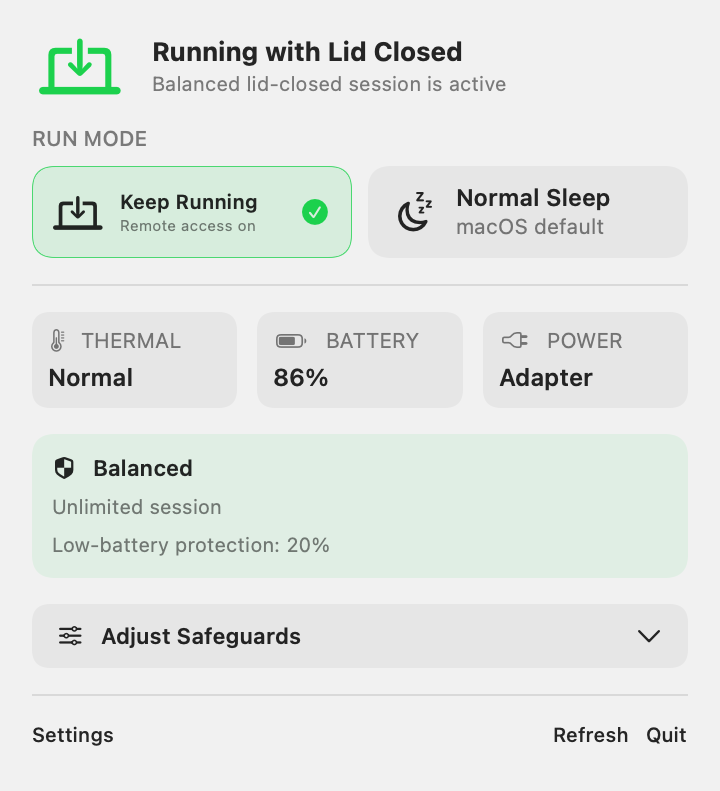
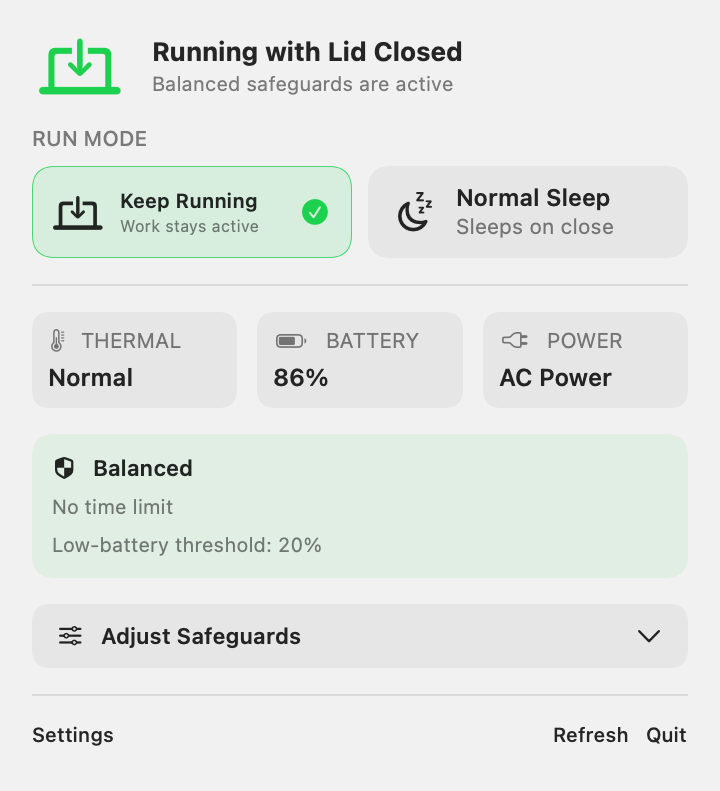
Polish English README copy

diff --git a/scripts/render-readme-screenshots.swift b/scripts/render-readme-screenshots.swift
@@ -90,7 +90,7 @@ private struct ModeSwitcher: View {
             HStack(spacing: 8) {
                 ModeCard(
                     title: "Keep Running",
-                    subtitle: "Remote access on",
+                    subtitle: "Work stays active",
                     icon: "laptopcomputer.and.arrow.down",
                     selected: active,
                     tint: Palette.green,
@@ -98,7 +98,7 @@ private struct ModeSwitcher: View {
                 )
                 ModeCard(
                     title: "Normal Sleep",
-                    subtitle: "macOS default",
+                    subtitle: "Sleeps on close",
                     icon: "moon.zzz",
                     selected: !active,
                     tint: Palette.blue,
@@ -139,7 +139,7 @@ private struct Metrics: View {
         HStack(spacing: 10) {
             MetricCard(title: "THERMAL", value: "Normal", icon: "thermometer.medium", dark: dark)
             MetricCard(title: "BATTERY", value: "\(battery)%", icon: "battery.75percent", dark: dark)
-            MetricCard(title: "POWER", value: "Adapter", icon: "powerplug", dark: dark)
+            MetricCard(title: "POWER", value: "AC Power", icon: "powerplug", dark: dark)
         }
     }
 }
@@ -152,10 +152,10 @@ private struct ActiveSession: View {
         VStack(alignment: .leading, spacing: 6) {
             Label("Balanced", systemImage: "shield.checkered")
                 .font(.subheadline.weight(.semibold))
-            Text("Unlimited session")
+            Text("No time limit")
                 .font(.caption)
                 .foregroundStyle(.secondary)
-            Text("Low-battery protection: \(threshold)%")
+            Text("Low-battery threshold: \(threshold)%")
                 .font(.caption)
                 .foregroundStyle(.secondary)
         }
@@ -185,7 +185,7 @@ private struct ActivePanel: View {
 
     var body: some View {
         VStack(alignment: .leading, spacing: 13) {
-            Header(active: true, subtitle: "Balanced lid-closed session is active")
+            Header(active: true, subtitle: "Balanced safeguards are active")
             ModeSwitcher(active: true, dark: dark)
             Divider()
             Metrics(battery: 86, dark: dark)
@@ -224,7 +224,7 @@ private struct ExpandedControls: View {
             VStack(alignment: .leading, spacing: 3) {
                 Text("CURRENT SESSION SAFEGUARDS")
                     .font(.system(size: 11.5, weight: .semibold))
-                Text("Changes apply immediately to the current session.")
+                Text("Changes take effect immediately.")
                     .font(.system(size: 10.5))
                     .foregroundStyle(.secondary)
             }
@@ -238,10 +238,10 @@ private struct ExpandedControls: View {
             .background(dark ? Palette.darkCard : Palette.lightCard, in: RoundedRectangle(cornerRadius: 7))
 
             HStack {
-                Text("Session duration")
+                Text("Duration")
                     .font(.system(size: 12, weight: .medium))
                 Spacer()
-                Text("Unlimited")
+                Text("No time limit")
                     .font(.system(size: 12, weight: .semibold))
                 Image(systemName: "chevron.up.chevron.down")
                     .font(.caption)
@@ -251,7 +251,7 @@ private struct ExpandedControls: View {
             .frame(height: 30)
             .background(dark ? Palette.darkCard : Palette.lightCard, in: RoundedRectangle(cornerRadius: 7))
 
-            Text("Keeps running until you manually restore normal lid sleep.")
+            Text("Keeps running until you restore normal lid sleep.")
                 .font(.system(size: 10.5))
                 .foregroundStyle(.secondary)
 
@@ -271,12 +271,12 @@ private struct ExpandedControls: View {
                 .background(dark ? Palette.darkCard : Palette.lightCard, in: RoundedRectangle(cornerRadius: 7))
             }
 
-            Text("Threshold is adjustable. Serious heat restores sleep automatically; unlimited sessions are optional.")
+            Text("Adjustable threshold. Serious thermal pressure automatically restores normal sleep.")
                 .font(.system(size: 10.5))
                 .foregroundStyle(.secondary)
                 .fixedSize(horizontal: false, vertical: true)
 
-            Text("Apply Safeguards")
+            Text("Apply Changes")
                 .font(.system(size: 13.5, weight: .semibold))
                 .foregroundStyle(.white)
                 .padding(.horizontal, 16)
@@ -310,15 +310,15 @@ private struct Segment: View {
 private struct NormalPanel: View {
     var body: some View {
         VStack(alignment: .leading, spacing: 14) {
-            Header(active: false, subtitle: "Default macOS lid sleep is restored")
+            Header(active: false, subtitle: "macOS will sleep when the lid closes")
             ModeSwitcher(active: false, dark: false)
             Divider()
             Metrics(battery: 86, dark: false)
 
             VStack(alignment: .leading, spacing: 5) {
-                Label("Sleep is managed normally by macOS", systemImage: "checkmark.shield")
+                Label("Normal macOS sleep behavior", systemImage: "checkmark.shield")
                     .font(.system(size: 12.5, weight: .semibold))
-                Text("No lid-closed session or timer, battery, or thermal safeguard is active.")
+                Text("No LidGuard session or safeguards are active.")
                     .font(.system(size: 10.5))
                     .foregroundStyle(.secondary)
                     .fixedSize(horizontal: false, vertical: true)
@@ -328,7 +328,7 @@ private struct NormalPanel: View {
             .background(Palette.blue.opacity(0.08), in: RoundedRectangle(cornerRadius: 10))
 
             HStack {
-                Label("Configure Lid-Closed Session", systemImage: "laptopcomputer.and.arrow.down")
+                Label("Set Up Lid-Closed Mode", systemImage: "laptopcomputer.and.arrow.down")
                     .font(.system(size: 12.5, weight: .semibold))
                 Spacer()
                 Image(systemName: "chevron.down")

diff --git a/README.md b/README.md
@@ -4,45 +4,45 @@
 
 # LidGuard
 
-**Close your Mac before heading out without interrupting Codex, other local agents, or remote access. LidGuard keeps them running under configurable safeguards.**
+**Keep your Mac running with the lid closed so coding agents such as Codex can keep working and remote access stays available while you are away. LidGuard adds time, battery, and thermal safeguards.**
 
 [![macOS 13+](https://img.shields.io/badge/macOS-13%2B-111111?logo=apple)](https://github.com/aermin/LidGuard)
 [![Apple Silicon](https://img.shields.io/badge/Apple%20Silicon-arm64-0A84FF)](https://github.com/aermin/LidGuard)
 [![Swift 5.10](https://img.shields.io/badge/Swift-5.10-F05138?logo=swift&logoColor=white)](https://github.com/aermin/LidGuard)
 [![Tests 16 passing](https://img.shields.io/badge/tests-16%20passing-22C55E)](https://github.com/aermin/LidGuard)
 
-Lightweight menu bar app · Restricted root helper · CLI · No display takeover · No agent hooks
+Menu bar app · Tightly scoped privileged helper · CLI · No virtual display · No agent hooks
 
 </div>
 
-You may need to close your Mac and put it in a sleeve or bag while **Codex, another local agent, a download, or a build is still running**. You may also leave the Mac at home or at your desk and continue viewing and controlling it from your phone. By default, macOS sleeps when the lid is closed, stopping those tasks and remote connections.
+Sometimes you need to close your MacBook while **a coding agent such as Codex is still working, a build or download is in progress, or you plan to reconnect from your phone**. By default, macOS sleeps when the lid closes, pausing local work and dropping remote access.
 
-LidGuard lets you choose what happens after the lid closes. It can keep the Mac running when needed, then automatically restore normal sleep when a timer, low-battery threshold, or system thermal safeguard is triggered. It exposes two clear modes:
+LidGuard lets you decide whether closing the lid should keep the Mac running or return it to normal sleep. While lid-closed operation is active, LidGuard can automatically restore normal sleep when a timer expires, the battery reaches your threshold, or macOS reports serious thermal pressure.
 
-- **Keep Running with Lid Closed**: agents, tasks, and remote connections continue after the lid closes, under the safeguards you select.
-- **Normal Lid Sleep**: restores the default macOS behavior so the Mac sleeps normally when closed.
+- **Keep Running with Lid Closed**: keeps coding agents and background jobs running, and supported remote-control software available, after the lid closes.
+- **Normal Lid Sleep**: restores the default macOS behavior, so the Mac sleeps when the lid closes.
 
-LidGuard only manages whether the Mac keeps running with the lid closed. It does not take over the display or alter unrelated sleep settings.
+LidGuard changes only the lid-close sleep behavior. It does not create a virtual display, capture the screen, keep the display awake, or change unrelated sleep settings.
 
 > [!WARNING]
-> Running a Mac inside a sleeve, backpack, or other enclosed space can trap heat. LidGuard provides thermal safeguards, but it cannot eliminate physical cooling risks. Manual unlimited sessions require an additional confirmation.
+> Running a MacBook inside a sleeve, backpack, or other enclosed space can trap heat. LidGuard can react to thermal pressure reported by macOS, but it cannot guarantee safe temperatures or airflow. Manual sessions with no time limit require an additional confirmation.
 
 ## Quick Start
 
 ### Daily Use
 
 1. Click the LidGuard icon in the menu bar.
-2. Select **Keep Running with Lid Closed (`合盖运行`)**, choose a protection profile and duration, then click **Start (`开始合盖运行`)**.
-3. When continuous operation is no longer needed, select **Normal Lid Sleep (`正常休眠`)** to restore the default macOS lid behavior.
+2. Select **Keep Running (`合盖运行`)**, choose a protection profile and duration, then click **Start (`开始合盖运行`)**.
+3. When you no longer need the Mac to stay running, select **Normal Sleep (`正常休眠`)** to restore the default macOS behavior.
 
-While a session is active, you can view its remaining time, battery level, power source, and system thermal state, or adjust its safeguards.
+While a session is active, you can check the remaining time, battery level, power source, and thermal state, or adjust the current safeguards.
 
 ### Requirements
 
 - Apple Silicon Mac
 - macOS 13 or later
 - Xcode Command Line Tools / Swift 5.10
-- The current local v1 uses ad-hoc signing and is not a distributable installer
+- This source-only v1 uses ad-hoc signing and is not ready for distribution
 
 ### Build, Test, and Install
 
@@ -58,13 +58,13 @@ make install
 `make install` will:
 
 1. Build `dist/LidGuard.app`.
-2. Request administrator authorization once.
-3. Install the restricted helper, LaunchDaemon, and `/usr/local/bin/lidguard`.
+2. Prompt once for administrator authorization.
+3. Install the privileged helper, LaunchDaemon, and `/usr/local/bin/lidguard`.
 4. Open the LidGuard menu bar app.
 
-Switching modes during normal use should not request administrator authorization again.
+After the initial installation, switching modes does not require administrator authorization.
 
-Local v1 builds use ad-hoc signatures. Rebuilding the app generates a new code hash, so updating a development build with `make install` requires authorization again. LidGuard detects this signature mismatch and displays **Reauthorize Helper (`重新授权 Helper`)** instead of incorrectly reporting the helper as missing.
+Development builds use ad-hoc signatures, so each rebuild changes the app's code signature. Running `make install` to update a development build will therefore request administrator authorization again. If the installed helper no longer recognizes the rebuilt app, LidGuard displays **Reauthorize Helper (`重新授权 Helper`)** instead of reporting the helper as missing.
 
 ## Interface
 
@@ -72,9 +72,9 @@ Local v1 builds use ad-hoc signatures. Rebuilding the app generates a new code h
   <img src="docs/assets/lidguard-expanded-en.png" alt="Expanded LidGuard control panel" width="560">
 </p>
 
-<p align="center"><sub>The expanded panel keeps mode switching, device status, the current session, protection profile, duration, and low-battery threshold in one menu.</sub></p>
+<p align="center"><sub>The expanded panel puts mode selection, device status, session details, safeguards, duration, and the low-battery threshold in one menu.</sub></p>
 
-The low-battery threshold is configurable directly in the protection panel. Strict mode uses a fixed 30% threshold, Balanced mode supports 10%-50%, and Manual mode exposes the same threshold control after low-battery protection is enabled.
+The low-battery threshold can be changed directly in the safeguards panel. Strict uses a fixed 30% threshold, Balanced allows 10%–50%, and Manual exposes the same control when low-battery protection is enabled.
 
 <table>
   <tr>
@@ -87,7 +87,7 @@ The low-battery threshold is configurable directly in the protection panel. Stri
   </tr>
   <tr>
     <td>Shows the current profile, duration, low-battery threshold, thermal state, and power source.</td>
-    <td>Hides irrelevant protection countdowns and expands session configuration only when needed.</td>
+    <td>Shows a clean idle state and reveals session setup only when requested.</td>
   </tr>
 </table>
 
@@ -95,17 +95,17 @@ The low-battery threshold is configurable directly in the protection panel. Stri
 
 | Profile | Duration | Low-battery safeguard | Thermal safeguard | Best for |
 | --- | --- | --- | --- | --- |
-| **Strict** | Required, 30 minutes to 8 hours | Fixed at 30% | Restore sleep at `serious` or `critical` | Short absences, safety first |
-| **Balanced** | Preset, custom, or unlimited | 20% by default, adjustable from 10%-50% | Restore sleep at `serious` or `critical` | Everyday remote access and agent tasks |
-| **Manual** | Preset, custom, or unlimited | Off by default, optional | Warn at `serious`; always restore sleep at `critical` | Users explicitly accepting more risk |
+| **Strict** | Required: 30 minutes to 8 hours | Fixed at 30% | Restores normal sleep at `serious` or `critical` | Short absences; safety first |
+| **Balanced** | Preset, custom, or no time limit | 20% by default; adjustable from 10%–50% | Restores normal sleep at `serious` or `critical` | Everyday remote access and agent tasks |
+| **Manual** | Preset, custom, or no time limit | Off by default; optional | Warns at `serious`; always restores sleep at `critical` | Advanced users who want direct control |
 
-Custom sessions can run for up to 7 days. LidGuard sends a notification 5 minutes before expiration. Low-battery protection triggers only while running on battery and not charging.
+Timed sessions can run for up to 7 days. LidGuard sends a notification 5 minutes before a timed session ends. Low-battery protection applies only while the Mac is running on battery and not charging.
 
 ## CLI
 
 ### Install the CLI
 
-The CLI does not require a separate installation. Complete the source installation above:
+The CLI is installed together with the app and helper. Use the source installation above:
 
 ```bash
 git clone https://github.com/aermin/LidGuard.git
@@ -113,7 +113,7 @@ cd LidGuard
 make install
 ```
 
-`make install` installs the menu bar app, restricted helper, and CLI together. The CLI is placed at:
+`make install` installs the menu bar app, privileged helper, and CLI together. The CLI is placed at:
 
 ```text
 /usr/local/bin/lidguard
@@ -130,7 +130,7 @@ lidguard status
 If the shell reports `command not found`, try `/usr/local/bin/lidguard doctor` directly. If that works, make sure `/usr/local/bin` is included in your shell's `PATH`.
 
 > [!NOTE]
-> Do not copy only the CLI binary from the build directory. The CLI must be installed together with the helper so the installation process can register its code-signing requirement. Run `make install` again when updating a source build.
+> Do not copy the CLI binary by itself from the build directory. It must be installed with the helper so the installer can register the CLI's code-signing requirement. Run `make install` again when updating a source build.
 
 ### Usage
 
@@ -139,13 +139,13 @@ If the shell reports `command not found`, try `/usr/local/bin/lidguard doctor` d
 lidguard status
 lidguard status --json
 
-# Run a Balanced session for 4 hours
+# Start a Balanced session for 4 hours
 lidguard start --profile balanced --for 4h
 
-# Run a Strict session until a specific time
+# Start a Strict session that ends at a specific time
 lidguard start --profile strict --until 2026-08-10T23:30:00+08:00
 
-# Run a Manual unlimited session with explicit risk confirmation
+# Start a Manual session with no time limit and confirm the risk
 lidguard start --profile manual --unlimited --confirm-risk
 
 # Extend the current deadline by 2 hours
@@ -158,67 +158,67 @@ lidguard stop
 lidguard doctor
 ```
 
-LidGuard does not install Codex hooks. Agents must invoke the CLI explicitly, so starting or finishing a task never changes the entire Mac's power state automatically.
+LidGuard intentionally does not install Codex hooks. Agents can call the CLI explicitly, but starting or finishing a task will never change the Mac's system-wide sleep behavior automatically.
 
 ## Why LidGuard
 
-General-purpose keep-awake tools often affect the display, idle sleep, or other power behavior at the same time. Remote-control and agent workflows need a narrower switch with clear recovery behavior:
+General-purpose keep-awake tools often prevent display sleep, idle sleep, or both. Remote-control and agent workflows benefit from narrower control with predictable recovery behavior:
 
 | Goal | LidGuard behavior |
 | --- | --- |
 | Keep tasks running after the lid closes | Changes only the system `SleepDisabled` state |
-| Keep remote desktop visible and controllable | Creates no display sleep assertion or virtual display |
-| Preserve safeguards after the app quits | The LaunchDaemon helper persists timers and policies |
-| Avoid entering an admin password every time | Authorize the helper once, then use restricted XPC calls |
-| Recover from low battery or overheating | Restore `disablesleep=0` and record the stop reason |
-| Handle external power-state changes | Do not fight them repeatedly; end the session or report external management |
+| Avoid interfering with remote desktop output | Creates no display-sleep assertion or virtual display |
+| Keep safeguards active after the app quits | The LaunchDaemon helper persists the session and its policies |
+| Avoid entering an admin password every time | Authorize the helper once, then use the limited XPC interface |
+| Recover from low battery or thermal pressure | Restores `disablesleep=0` and records the reason |
+| Respect changes made by other tools | Does not repeatedly override them; ends the session or reports an externally managed state |
 
 ## Security Boundaries
 
-- The helper runs as root but exposes only four structured operation types.
-- The helper validates the caller UID and the code-signing requirement recorded during installation.
-- Sessions, deadlines, and safeguards survive app, CLI, or helper restarts.
+- The helper runs as root but exposes only a fixed set of structured operations.
+- The helper validates the caller's UID and the code-signing requirement recorded during installation.
+- Session state, deadlines, and safeguards survive app, CLI, and helper restarts.
 - **Restore Normal Sleep** changes only `disablesleep=0`; it does not overwrite other `pmset` settings.
-- If another process disables `SleepDisabled`, LidGuard ends the current session instead of repeatedly enabling it again.
-- If another process enables `SleepDisabled`, the UI reports that the state is not managed by LidGuard.
+- If another process clears `SleepDisabled`, LidGuard ends the current session instead of repeatedly setting it again.
+- If another process sets `SleepDisabled`, the UI reports that LidGuard does not manage the current state.
 - Uninstalling the helper restores normal sleep first.
 
 ## Verification
 
-Automated tests cover the policy matrix, time parsing, low-battery behavior, all four thermal states, state recovery, external overrides, and `pmset` readback failures. Tests use fake power controllers and sensors, so they do not modify the real system power state.
+Automated tests cover the policy matrix, time parsing, low-battery behavior, all four macOS thermal states, state recovery, external overrides, and `pmset` verification failures. The test suite uses simulated power controllers and sensors, so it does not change the real system power state.
 
 ```text
 Tests: 16 passed, 0 failed
 ```
 
-Verified on the current test machine:
+Verified on the development Mac:
 
-- During an active session, vivo remote control remains visible and usable after the lid closes, and agents continue running.
-- In Normal Lid Sleep mode, remote control becomes unusable after the lid closes and macOS returns to its default sleep behavior.
+- During an active session, vivo remote control remains visible and usable after the lid closes, while coding agents continue running.
+- In Normal Sleep mode, remote control becomes unusable after the lid closes and macOS follows its default sleep behavior.
 - The helper continues enforcing timers, low-battery safeguards, and thermal safeguards after the app quits.
-- LidGuard adds no `caffeinate` or display sleep assertions.
+- LidGuard starts no `caffeinate` process and creates no display-sleep assertions.
 
 ## Uninstall
 
-In the app settings, select **Restore Sleep and Uninstall Helper (`恢复休眠并卸载 Helper`)**. LidGuard first restores `disablesleep=0`, then removes the LaunchDaemon, helper, and CLI. The app and source code remain in place.
+In the app settings, select **Restore Sleep and Uninstall Helper (`恢复休眠并卸载 Helper`)**. LidGuard first restores `disablesleep=0`, then removes the LaunchDaemon, helper, and CLI. The app bundle and source tree remain in place.
 
 ## Known Limitations
 
 > [!IMPORTANT]
-> Apple does not publicly document `pmset disablesleep` as a stable interface. Re-test lid-close, wake, and remote-control behavior after macOS upgrades.
+> Apple does not document `pmset disablesleep` as a stable public interface. Re-test lid-close, wake, and remote-control behavior after every macOS upgrade.
 
-- End-to-end testing has currently been completed only on an Apple Silicon Mac running macOS 15.6.1.
-- Local v1 uses ad-hoc signing and has not been prepared for Developer ID distribution or notarization.
-- LidGuard uses the system levels from `ProcessInfo.thermalState`; it does not read private SMC temperature values.
-- LidGuard cannot guarantee that every remote-control application will keep producing video while the lid is closed.
-- The absence of a reported `critical` thermal state does not mean running inside a sleeve or backpack is safe.
+- End-to-end testing has been completed only on one Apple Silicon Mac running macOS 15.6.1.
+- This v1 build uses ad-hoc signing. It is not signed with a Developer ID, notarized, or packaged for distribution.
+- LidGuard reads the thermal pressure levels reported by `ProcessInfo.thermalState`; it does not read private SMC temperature values.
+- LidGuard cannot guarantee that every remote-control application will continue rendering video while the lid is closed.
+- The absence of a `critical` thermal state is not proof that running inside a sleeve or backpack is safe.
 
 ## Project Structure
 
 ```text
 LidGuardCore       Shared models, policies, time parsing, and XPC protocol
 LidGuardApp        SwiftUI menu bar app and settings
-LidGuardHelper     Privileged helper entry point
+LidGuardHelper     Privileged helper executable
 LidGuardHelperKit  Power control, sensors, state persistence, and policy engine
 LidGuardCLI        lidguard command-line interface
 LidGuardTests      Side-effect-free policy and helper tests
@@ -228,15 +228,15 @@ LidGuardTests      Side-effect-free policy and helper tests
 
 ```mermaid
 flowchart LR
-    App["Menu Bar App"] -->|"start / stop / update / status"| XPC["Restricted XPC API"]
+    App["Menu Bar App"] -->|"start / stop / update / status"| XPC["Limited XPC Interface"]
     CLI["lidguard CLI"] -->|"Structured requests"| XPC
-    XPC --> Helper["Root Helper · LaunchDaemon"]
+    XPC --> Helper["Privileged Helper · LaunchDaemon"]
     Helper --> Policy["Timer / Battery / Thermal Policies"]
     Helper --> PM["pmset -a disablesleep 1 / 0"]
     PM --> Verify["Read pmset -g and verify SleepDisabled"]
-    Verify --> State["Persist State and Last Stop Reason"]
+    Verify --> State["Persist Session State and Stop Reason"]
 ```
 
-The helper accepts only the fixed `start`, `stop`, `update`, and `status` operations. It does not accept arbitrary command strings or file paths. After every change, it reads `pmset -g` to verify the result and never falsely reports an active session after a failed update.
+The helper accepts only the fixed `start`, `stop`, `update`, and `status` operations. It does not accept arbitrary command strings or file paths. After every state change, it reads `pmset -g` to verify the result and does not report success if verification fails.
 
-Internally, **Keep Running with Lid Closed** and **Normal Lid Sleep** execute `pmset -a disablesleep 1` and `pmset -a disablesleep 0`, respectively. LidGuard creates no virtual display, performs no screen capture, changes neither `sleep` nor `displaysleep`, and adds no extra sleep assertion through `caffeinate`.
+Internally, **Keep Running** and **Normal Sleep** execute `pmset -a disablesleep 1` and `pmset -a disablesleep 0`, respectively. LidGuard creates no virtual display, performs no screen capture, changes neither `sleep` nor `displaysleep`, and adds no extra sleep assertion through `caffeinate`.
